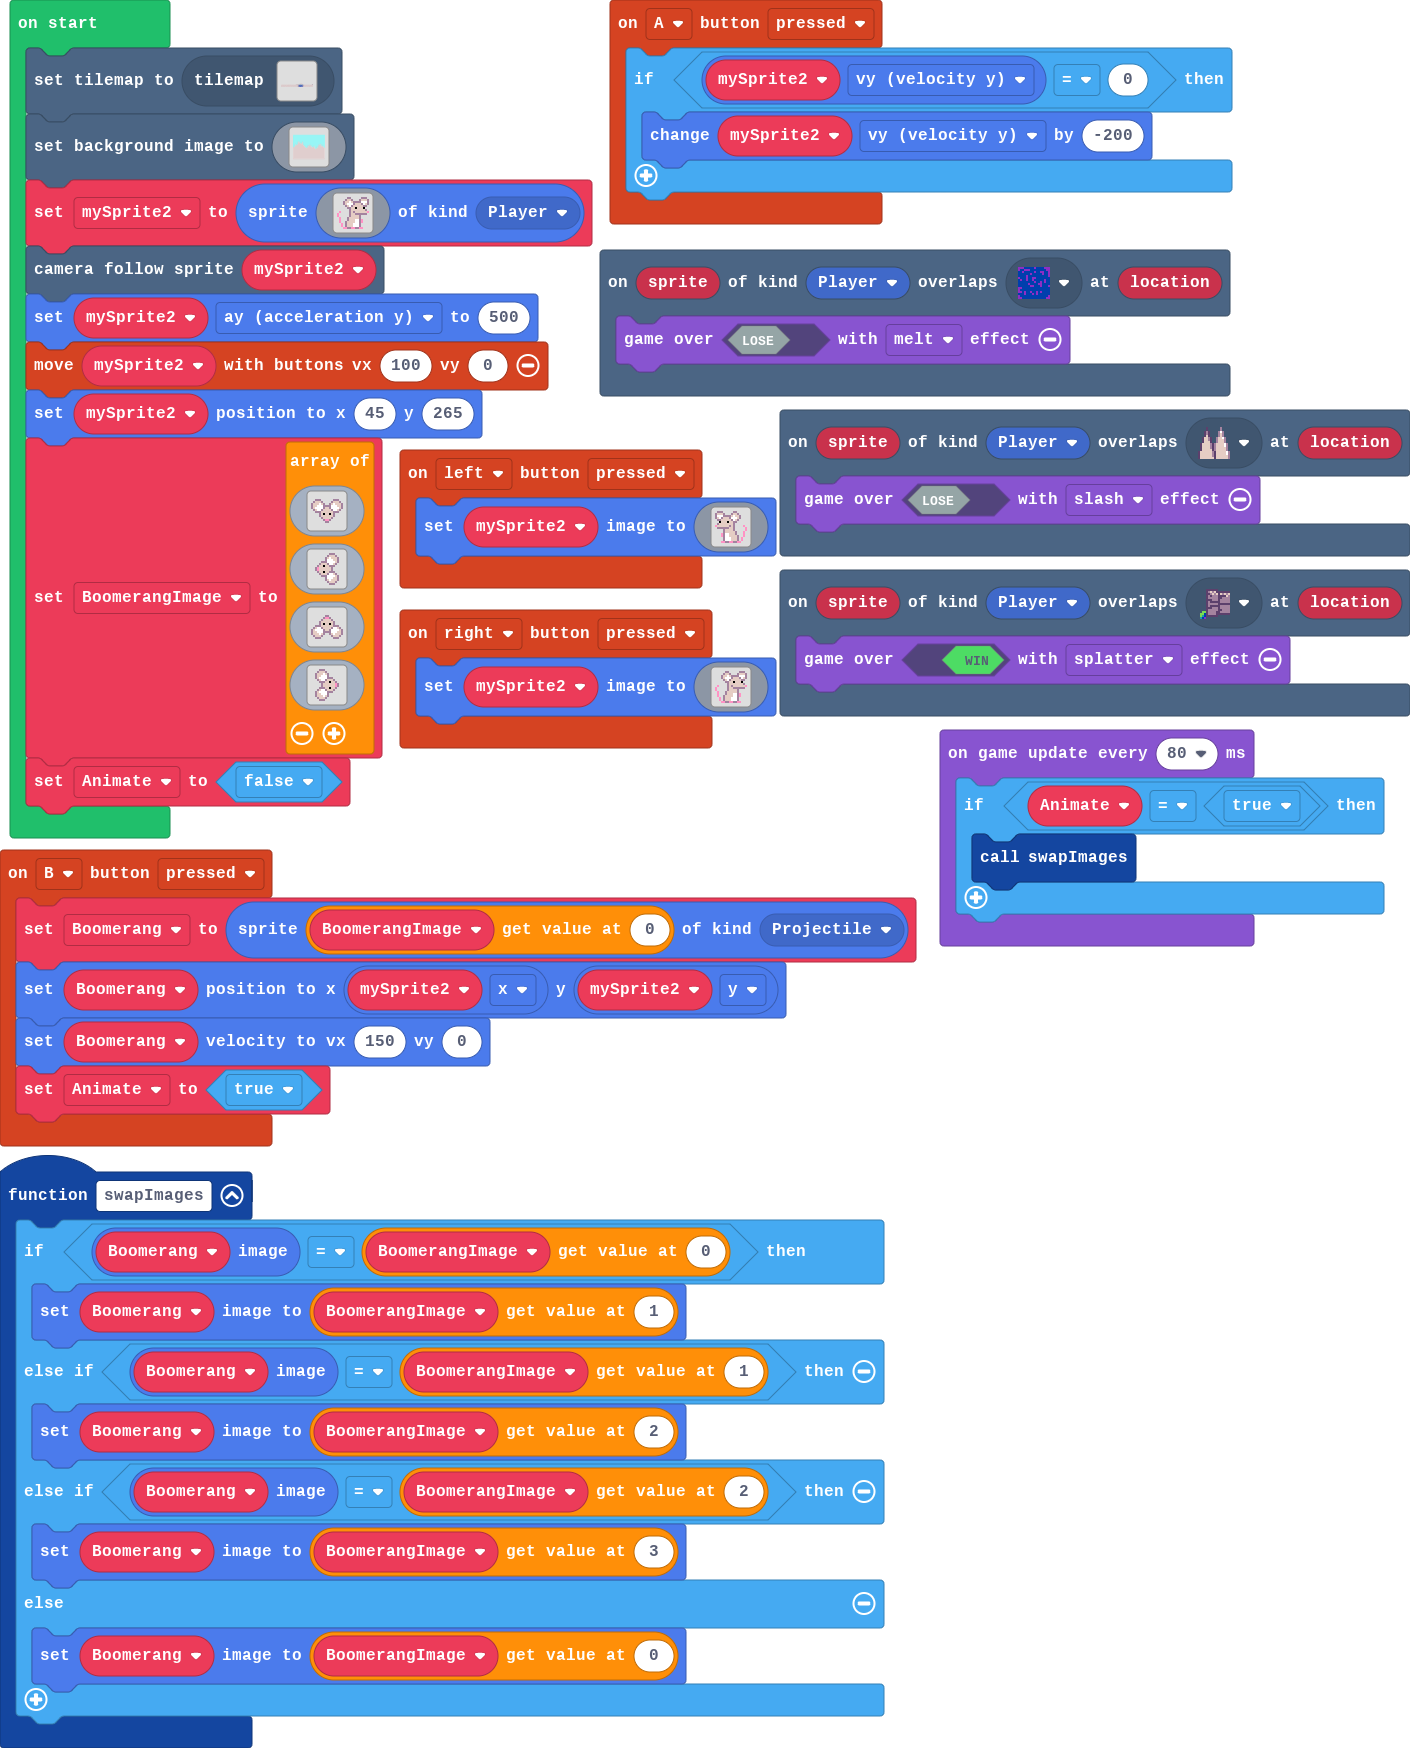
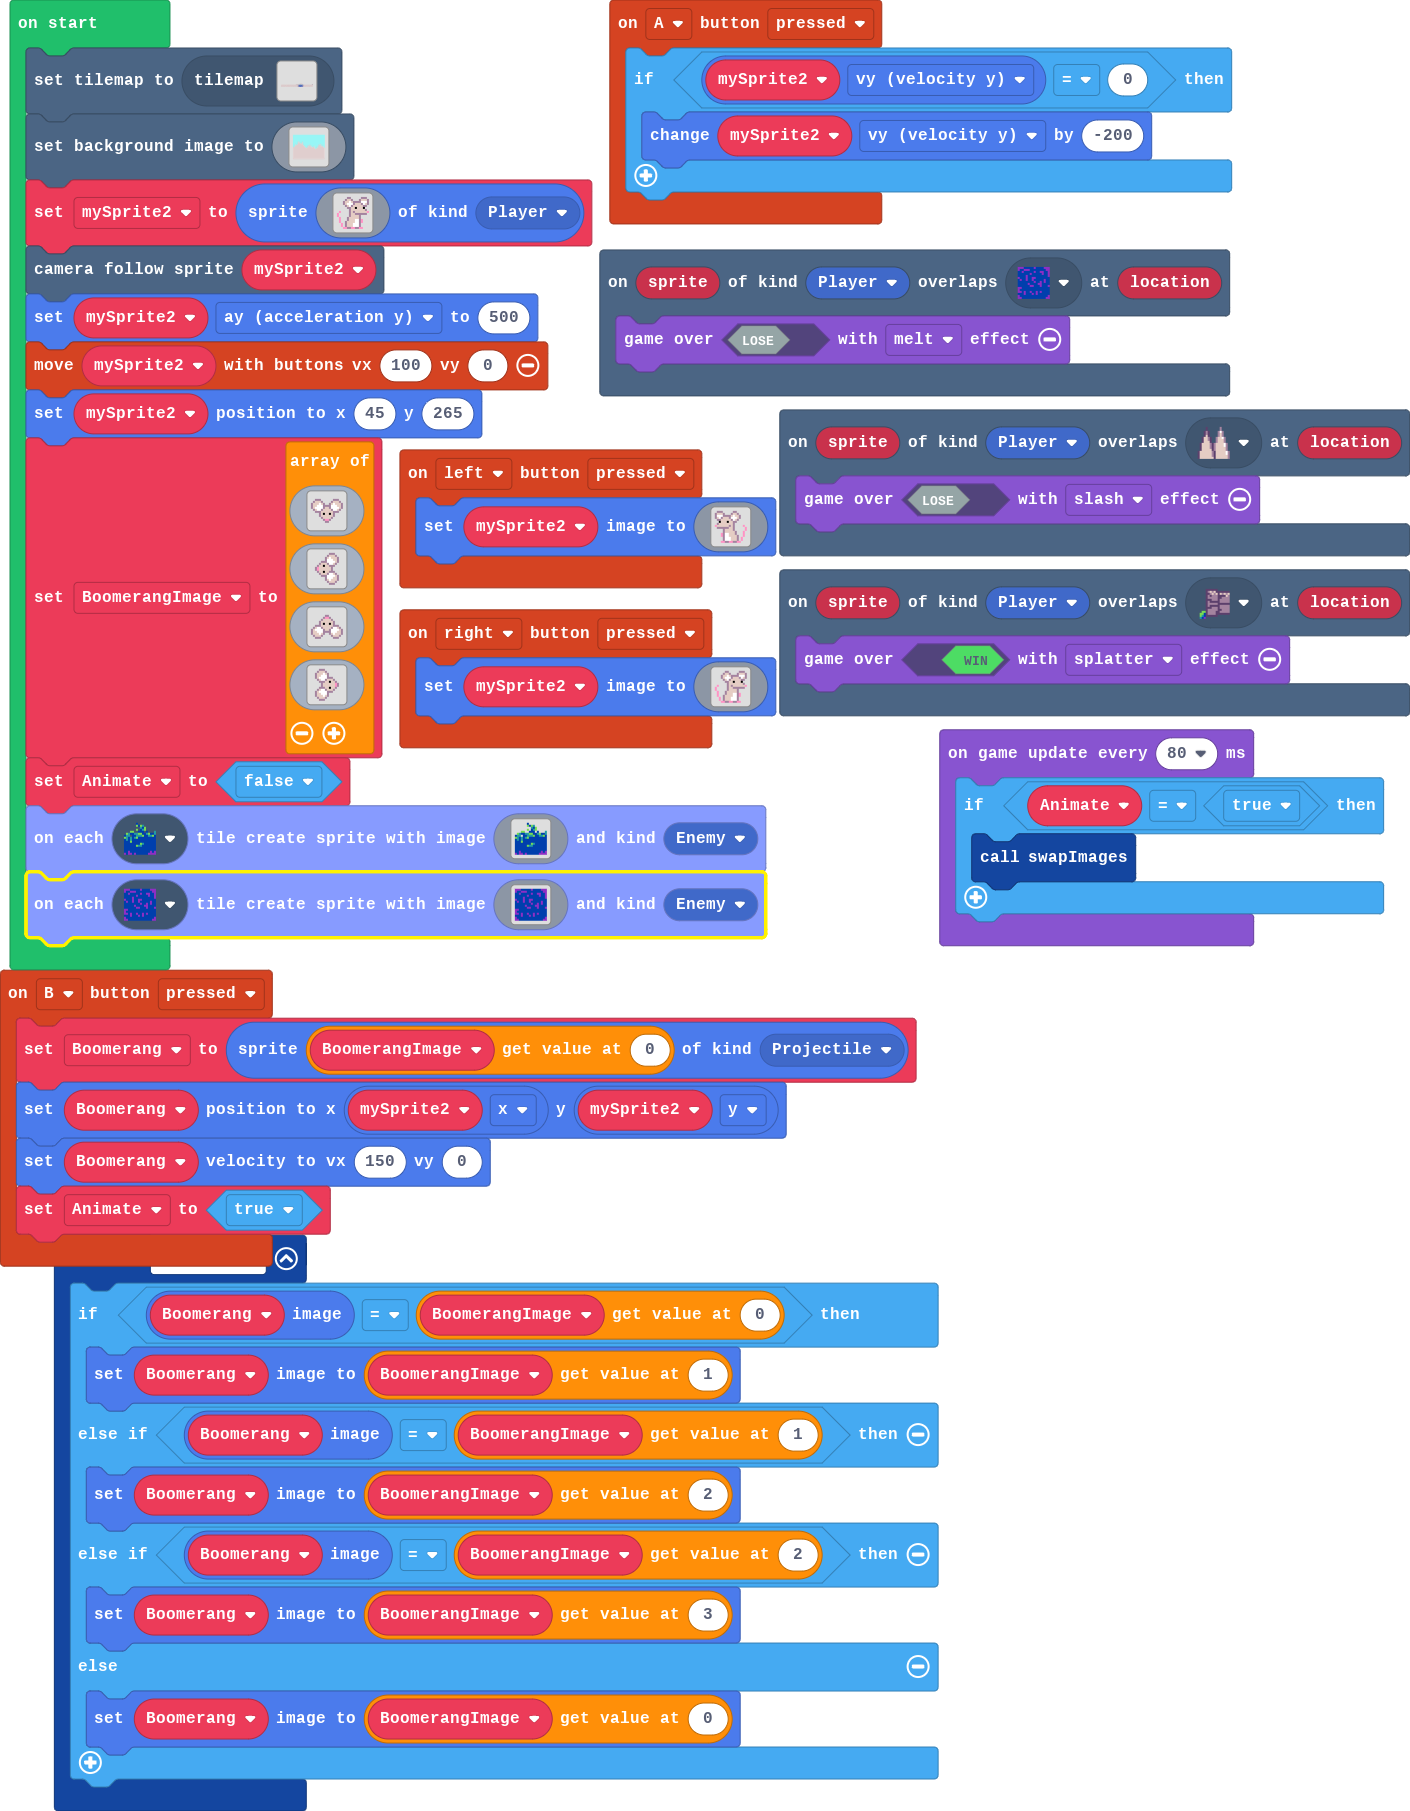
Update main.blocks, main.ts

diff --git a/main.ts b/main.ts
@@ -174,6 +174,8 @@ assets.image`Ratarang3`,
 assets.image`Ratarang4`
 ]
 Animate = false
+tileUtil.createSpritesOnTiles(assets.tile`Sewage`, assets.image`Sewage Sprite`, SpriteKind.Enemy)
+tileUtil.createSpritesOnTiles(assets.tile`BadWater`, assets.image`Badwater sprite`, SpriteKind.Enemy)
 game.onUpdateInterval(80, function () {
     if (Animate == true) {
         swapImages()
